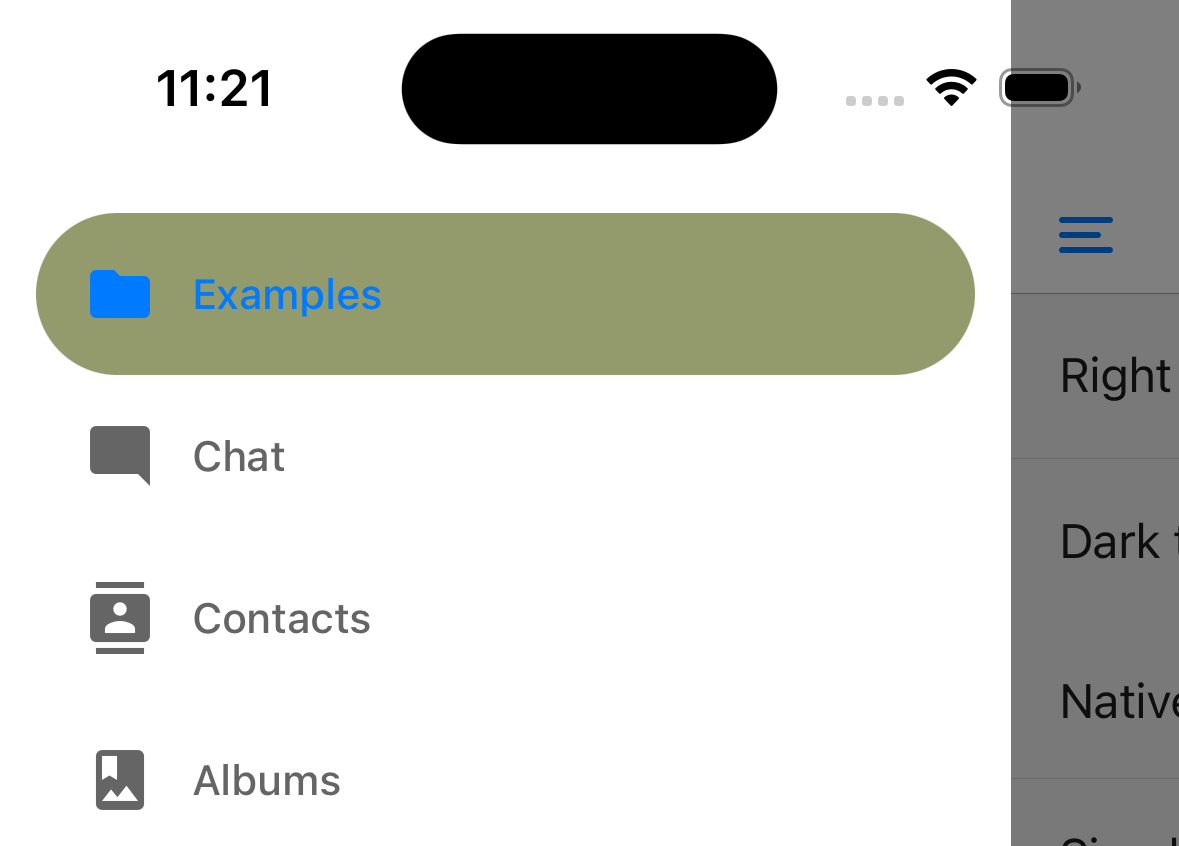
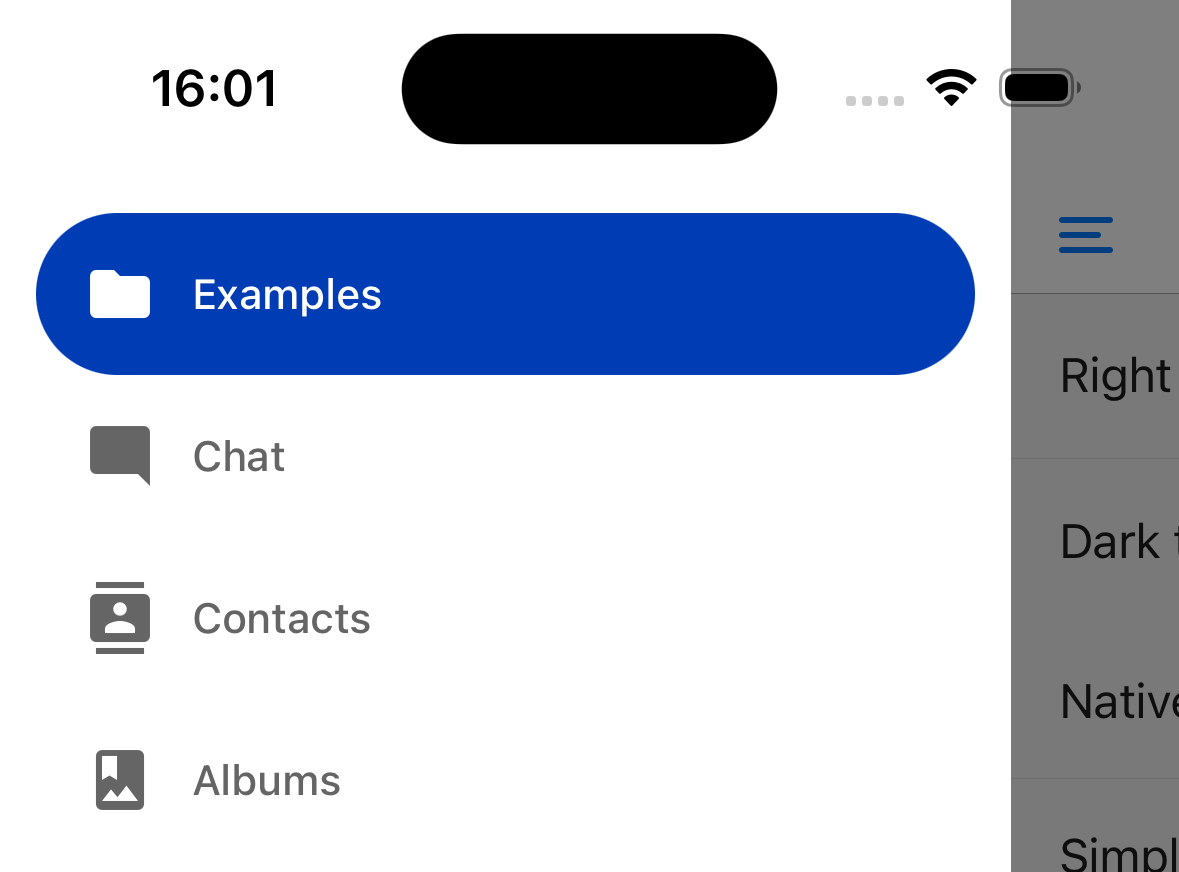
docs(Drawer): uploaded better photo

diff --git a/versioned_docs/version-7.x/drawer-navigator.md b/versioned_docs/version-7.x/drawer-navigator.md
@@ -345,7 +345,13 @@ Background color for the active item in the drawer.
 <img src="/assets/7.x/drawer/drawerActiveBackgroundColor.png" width="500" alt="Drawer active background color" />
 
 ```js
-   drawerActiveBackgroundColor: '#939B6C',
+    screenOptions={{
+      drawerActiveTintColor: 'white',
+      drawerActiveBackgroundColor: '#003CB3',
+      drawerLabelStyle: {
+        color: 'white',
+      },
+    }}
 ```
 
 #### `drawerInactiveTintColor`
